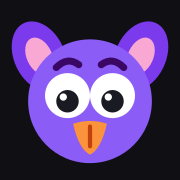
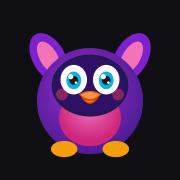
feat: update Furby asset designs and hide mascot from UI

diff --git a/src/App.vue b/src/App.vue
@@ -2,7 +2,6 @@
 import { onMounted } from "vue";
 import ActivityLog from "./components/ActivityLog.vue";
 import CommandGrid from "./components/CommandGrid.vue";
-import FurbyMascot from "./components/FurbyMascot.vue";
 import KidsView from "./components/kids/KidsView.vue";
 import { playPop } from "./components/kids/soundFx";
 import OnboardingHint from "./components/OnboardingHint.vue";
@@ -35,7 +34,6 @@ onMounted(() => {
 <template>
   <header>
     <div class="header-main">
-      <FurbyMascot :active="store.sending !== null || store.keepAliveActive" />
       <div>
         <h1>
           {{ store.uiMode === "kids" ? "Furby's Playroom" : "Furby Console" }}
